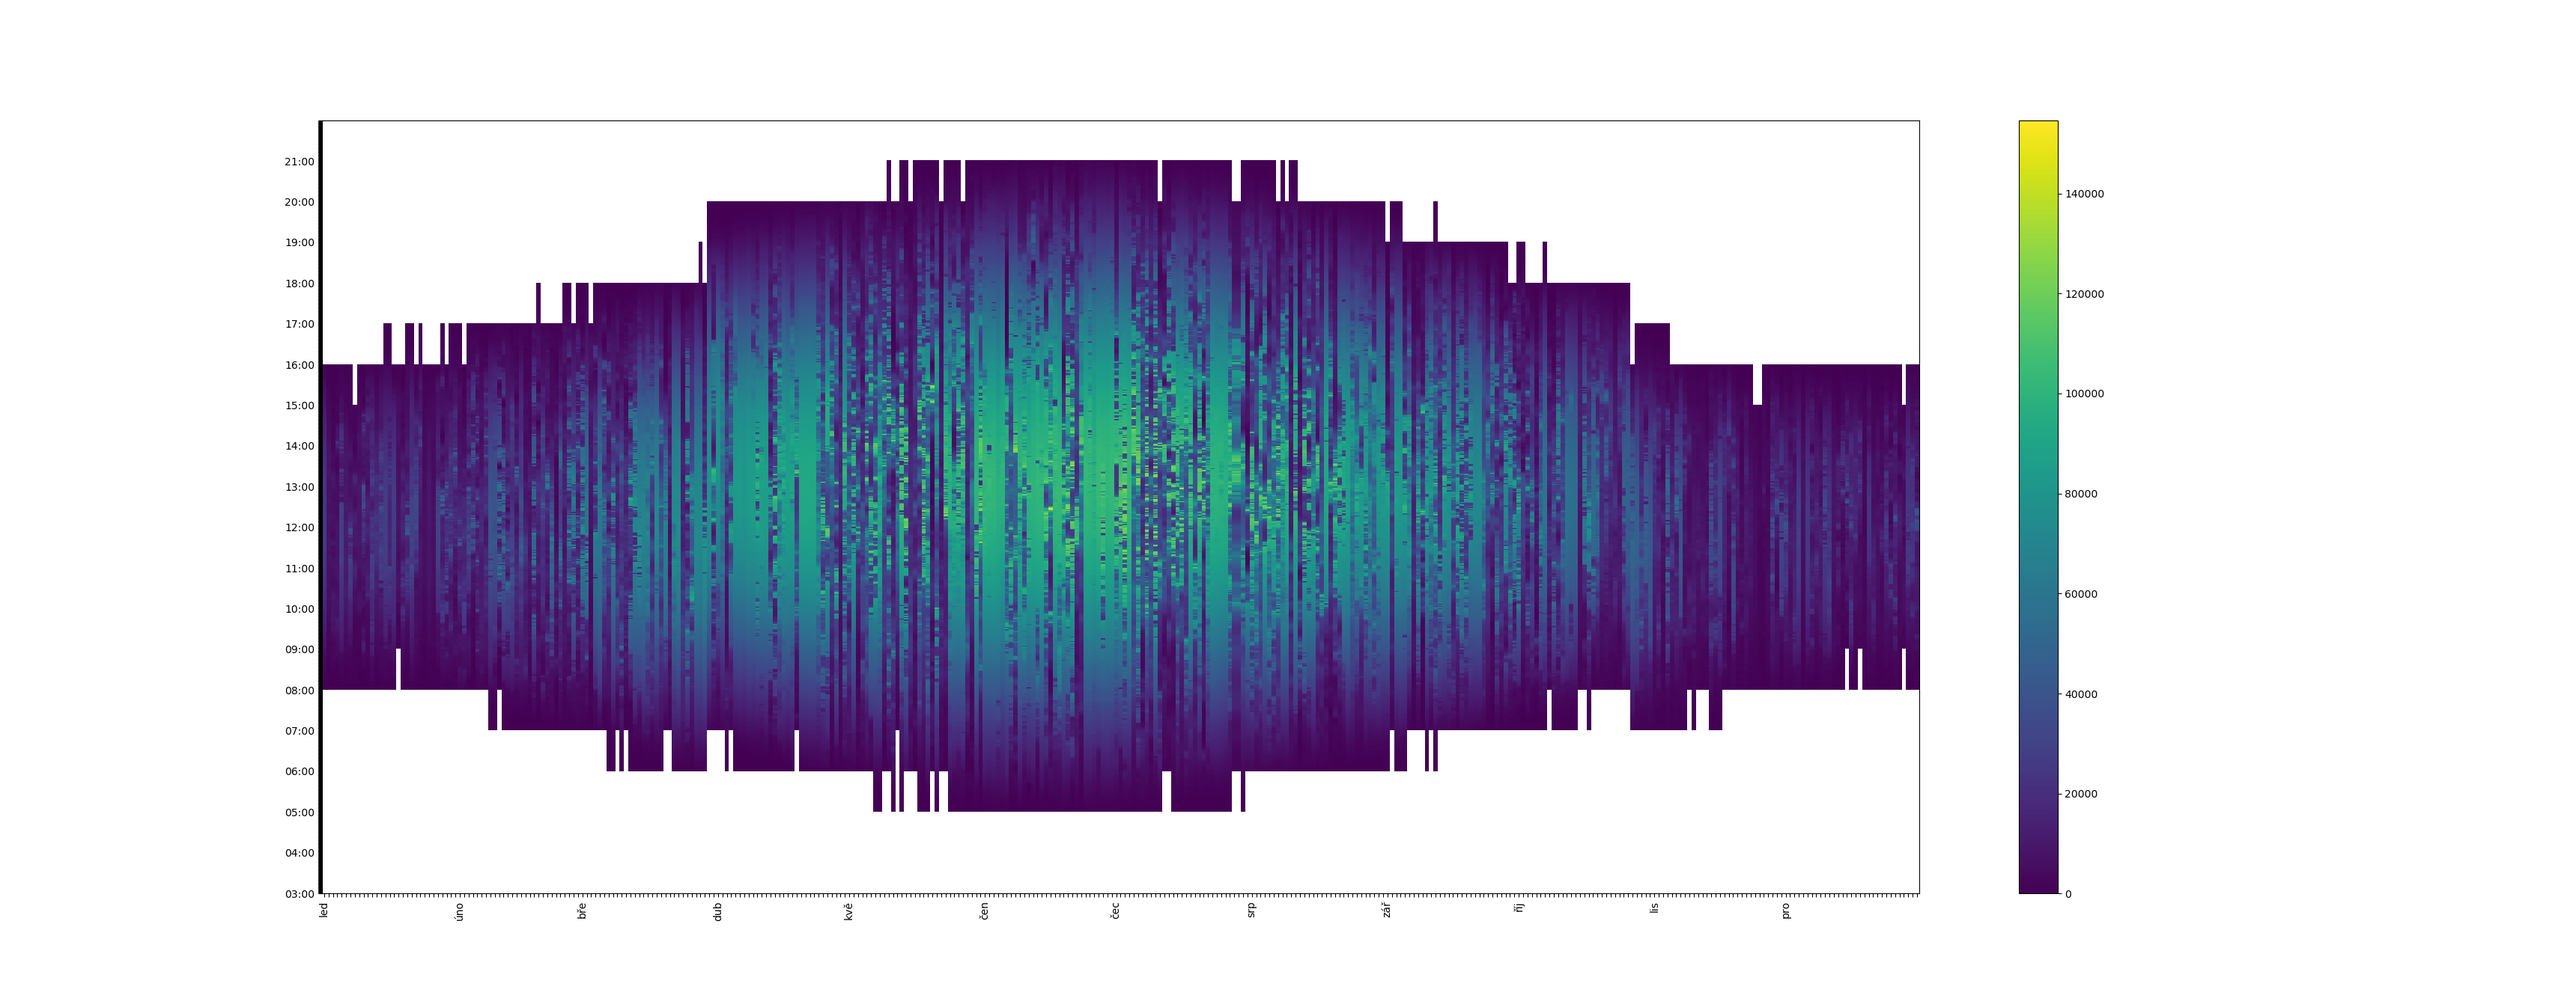
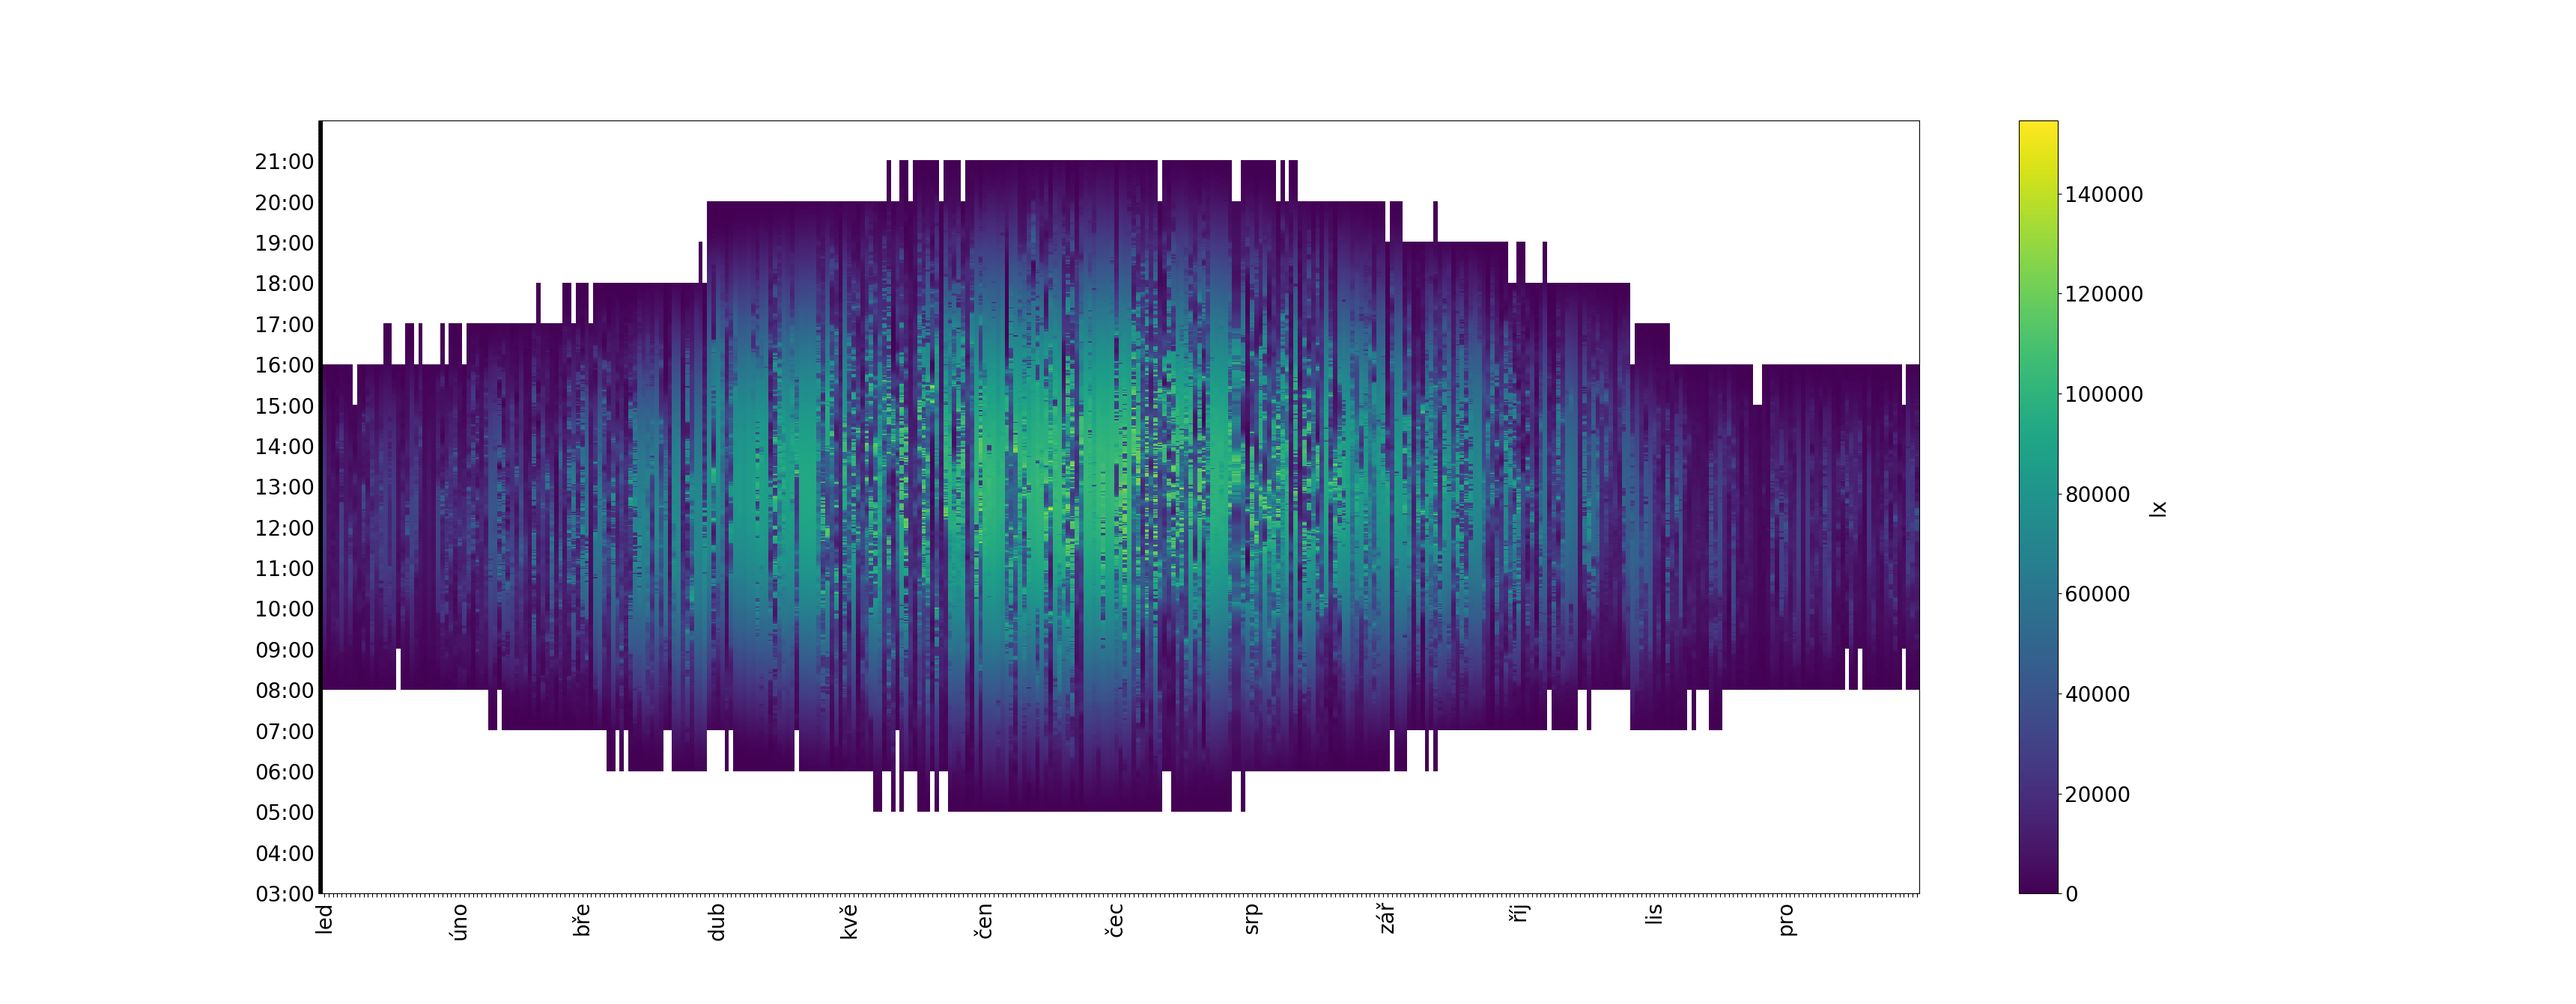
Bigger axes labels

diff --git a/median_19_exterier_cvs_quantized_log.py b/median_19_exterier_cvs_quantized_log.py
@@ -23,9 +23,7 @@ def normalizeYear(d):
 df['day'] = df['day'].apply(normalizeYear)
 
 def quantize(n):
-  if n > 100000:
-    return 100000
-  elif n > 80000:
+  if n > 80000:
     return 80000
   elif n > 40000:
     return 40000
@@ -35,12 +33,8 @@ def quantize(n):
     return 10000
   elif n > 5000:
     return 5000
-  elif n > 1000:
+  elif n > 0:
     return 1000
-  elif n > 100:
-    return 100
-  elif n > 10:
-    return 10
   else:
     return n
 
@@ -81,7 +75,7 @@ def dateToStr(d):
 ticklabelsx = [dateToStr(item) for item in df2.columns]
 
 ax.set_xticks(range(len(ticklabelsx)))
-ax.set_xticklabels(ticklabelsx, rotation = 90)
+ax.set_xticklabels(ticklabelsx, rotation = 90, fontsize=20)
 
 
 def timeToStr(d):
@@ -93,9 +87,11 @@ def timeToStr(d):
 ticklabelsy = [timeToStr(item) for item in df2.index]
 
 ax.set_yticks(range(len(ticklabelsy)))
-ax.set_yticklabels(ticklabelsy)
+ax.set_yticklabels(ticklabelsy, fontsize=20)
 
-plt.colorbar(im)
+cbar = ax.figure.colorbar(im, ax=ax)
+cbar.ax.tick_params(labelsize=20)
+cbar.ax.set_ylabel("log_10 lx", rotation=90, fontsize=20)
 
 plt.show()
 

diff --git a/median_19_exterier_cvs.py b/median_19_exterier_cvs.py
@@ -63,7 +63,7 @@ def dateToStr(d):
 ticklabelsx = [dateToStr(item) for item in df2.columns]
 
 ax.set_xticks(range(len(ticklabelsx)))
-ax.set_xticklabels(ticklabelsx, rotation = 90)
+ax.set_xticklabels(ticklabelsx, rotation = 90, fontsize=20)
 
 
 #hours = mdates.HourLocator()   # every year
@@ -74,16 +74,18 @@ ax.set_xticklabels(ticklabelsx, rotation = 90)
 
 def timeToStr(d):
   if d.minute == 0 and d.second == 15:
-    return d.strftime('%H:xx')
+    return d.strftime('%H:00')
   else:
     return ""
 
 ticklabelsy = [timeToStr(item) for item in df2.index]
 
 ax.set_yticks(range(len(ticklabelsy)))
-ax.set_yticklabels(ticklabelsy)
+ax.set_yticklabels(ticklabelsy, fontsize=20)
 
-plt.colorbar(im)
+cbar = ax.figure.colorbar(im, ax=ax)
+cbar.ax.tick_params(labelsize=20)
+cbar.ax.set_ylabel("lx", rotation=90, fontsize=20)
 
 plt.show()
 

diff --git a/median_19_exterier_cvs_quantized.py b/median_19_exterier_cvs_quantized.py
@@ -81,7 +81,7 @@ def dateToStr(d):
 ticklabelsx = [dateToStr(item) for item in df2.columns]
 
 ax.set_xticks(range(len(ticklabelsx)))
-ax.set_xticklabels(ticklabelsx, rotation = 90)
+ax.set_xticklabels(ticklabelsx, rotation = 90, fontsize=20)
 
 
 #hours = mdates.HourLocator()   # every year
@@ -92,16 +92,18 @@ ax.set_xticklabels(ticklabelsx, rotation = 90)
 
 def timeToStr(d):
   if d.minute == 0 and d.second == 15:
-    return d.strftime('%H:xx')
+    return d.strftime('%H:00')
   else:
     return ""
 
 ticklabelsy = [timeToStr(item) for item in df2.index]
 
 ax.set_yticks(range(len(ticklabelsy)))
-ax.set_yticklabels(ticklabelsy)
+ax.set_yticklabels(ticklabelsy, fontsize=20)
 
-plt.colorbar(im)
+cbar = ax.figure.colorbar(im, ax=ax)
+cbar.ax.tick_params(labelsize=20)
+cbar.ax.set_ylabel("lx", rotation=90, fontsize=20)
 
 plt.show()
 

diff --git a/median_19_exterier_cvs_log.py b/median_19_exterier_cvs_log.py
@@ -57,7 +57,7 @@ def dateToStr(d):
 ticklabelsx = [dateToStr(item) for item in df2.columns]
 
 ax.set_xticks(range(len(ticklabelsx)))
-ax.set_xticklabels(ticklabelsx, rotation = 90)
+ax.set_xticklabels(ticklabelsx, rotation = 90, fontsize=20)
 
 
 def timeToStr(d):
@@ -69,9 +69,11 @@ def timeToStr(d):
 ticklabelsy = [timeToStr(item) for item in df2.index]
 
 ax.set_yticks(range(len(ticklabelsy)))
-ax.set_yticklabels(ticklabelsy)
+ax.set_yticklabels(ticklabelsy, fontsize=20)
 
-plt.colorbar(im)
+cbar = ax.figure.colorbar(im, ax=ax)
+cbar.ax.tick_params(labelsize=20)
+cbar.ax.set_ylabel("log_10 lx", rotation=90, fontsize=20)
 
 plt.show()
 

diff --git a/exterier_en_30_cvs.py b/exterier_en_30_cvs.py
@@ -53,7 +53,7 @@ def dateToStr(d):
 ticklabelsx = [dateToStr(item) for item in df2.columns]
 
 ax.set_xticks(range(len(ticklabelsx)))
-ax.set_xticklabels(ticklabelsx, rotation = 90)
+ax.set_xticklabels(ticklabelsx, rotation = 90, fontsize=20)
 
 
 def timeToStr(d):
@@ -65,9 +65,11 @@ def timeToStr(d):
 ticklabelsy = [timeToStr(item) for item in df2.index]
 
 ax.set_yticks(range(len(ticklabelsy)))
-ax.set_yticklabels(ticklabelsy)
+ax.set_yticklabels(ticklabelsy, fontsize=20)
 
-plt.colorbar(im)
+cbar = ax.figure.colorbar(im, ax=ax)
+cbar.ax.tick_params(labelsize=20)
+cbar.ax.set_ylabel("lx", rotation=90, fontsize=20)
 
 plt.show()
 

diff --git a/hodina_cvs.py b/hodina_cvs.py
@@ -32,14 +32,16 @@ locale.setlocale(locale.LC_TIME, "cs_CZ.utf8")
 ticklabelsx = [datetimeToStr(item) for item in df2.columns]
 
 ax.set_xticks(range(len(ticklabelsx)))
-ax.set_xticklabels(ticklabelsx, rotation = 90)
+ax.set_xticklabels(ticklabelsx, rotation = 90, fontsize=20)
 
 ticklabelsy = [item.strftime('%H:xx') for item in df2.index]
 
 ax.set_yticks(range(len(ticklabelsy)))
-ax.set_yticklabels(ticklabelsy)
+ax.set_yticklabels(ticklabelsy, fontsize=20)
 
-plt.colorbar(im)
+cbar = ax.figure.colorbar(im, ax=ax)
+cbar.ax.tick_params(labelsize=20)
+cbar.ax.set_ylabel("lx", rotation=90, fontsize=20)
 
 plt.show()
 

diff --git a/zapocitane_hodnoty.py b/zapocitane_hodnoty.py
@@ -32,14 +32,16 @@ locale.setlocale(locale.LC_TIME, "cs_CZ.utf8")
 ticklabelsx = [datetimeToStr(item) for item in df2.columns]
 
 ax.set_xticks(range(len(ticklabelsx)))
-ax.set_xticklabels(ticklabelsx, rotation = 90)
+ax.set_xticklabels(ticklabelsx, rotation = 90, fontsize=20)
 
 ticklabelsy = [item.strftime('%H:xx') for item in df2.index]
 
 ax.set_yticks(range(len(ticklabelsy)))
-ax.set_yticklabels(ticklabelsy)
+ax.set_yticklabels(ticklabelsy, fontsize=20)
 
-plt.colorbar(im)
+cbar = ax.figure.colorbar(im, ax=ax)
+cbar.ax.tick_params(labelsize=20)
+cbar.ax.set_ylabel("lx", rotation=90, fontsize=20)
 
 plt.show()
 
